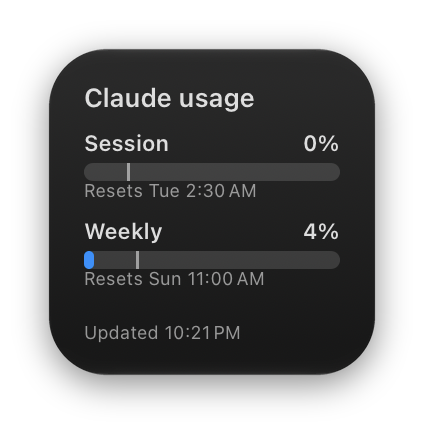
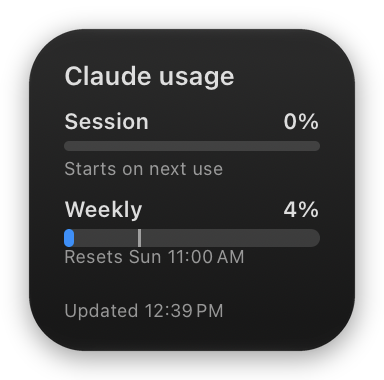
Update both widget screenshots from Leeway 1.3.1
Both are from the same moment, so the two widgets match. The small one
shows the new "Starts on next use" text. Both have transparent corners,
and the account name is hidden.

Claude-Session: https://claude.ai/code/session_011yurme7nsYJa6YsDJMwX5C

Changed region(s): [[0.0625, 0.0579, 0.9688, 0.9553], [0.1562, 0.2895, 0.8438, 0.4632], [0.1562, 0.5211, 0.8438, 0.6947]]

diff --git a/README.md b/README.md
@@ -33,7 +33,7 @@ Runs on macOS 11 Big Sur and newer, on both Apple Silicon and Intel Macs (one un
 **Widget** (small and medium)
 
 <p align="center">
-  <img src="docs/screenshots/widget-small.png" width="220" alt="Small Leeway widget: session 0% and weekly 4% used, with pace ticks and reset times">
+  <img src="docs/screenshots/widget-small.png" width="214" alt="Small Leeway widget: session 0% used, starts on next use; weekly 4% used with a pace tick and reset time">
   <img src="docs/screenshots/widget-medium.png" width="415" alt="Medium Leeway widget: session and weekly bars with reset times and pace, such as Plenty left">
 </p>
 
